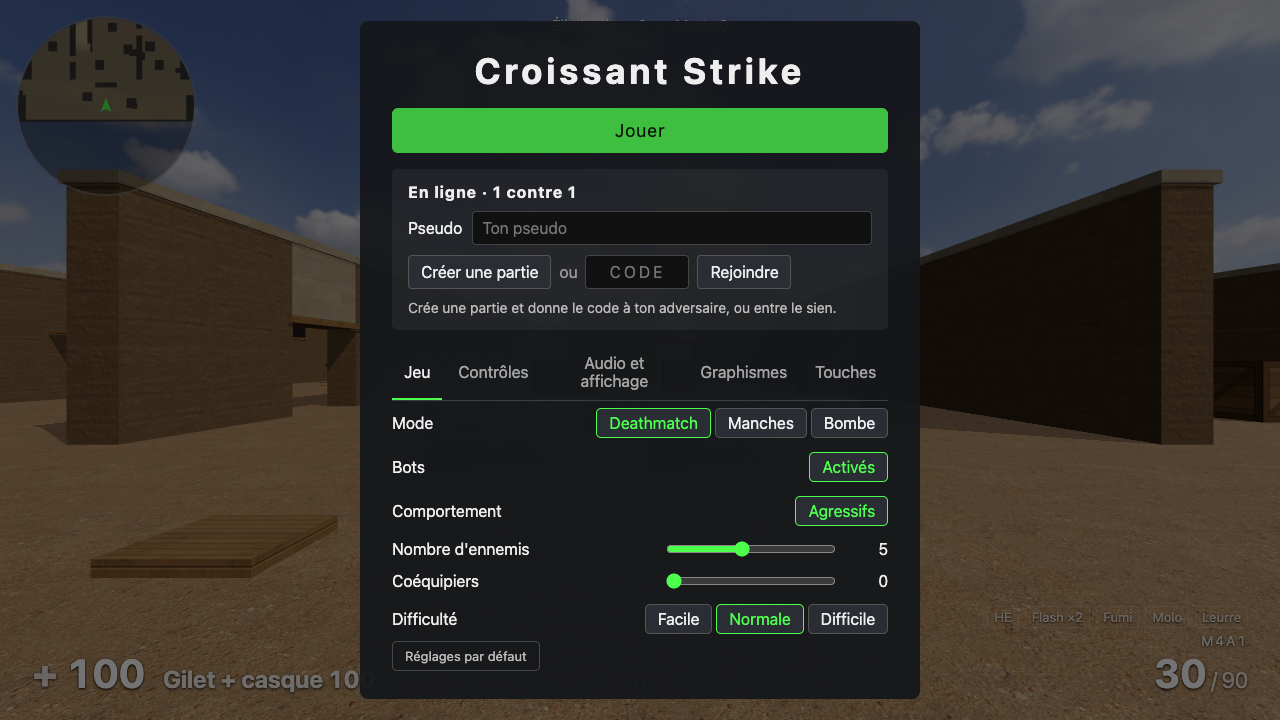
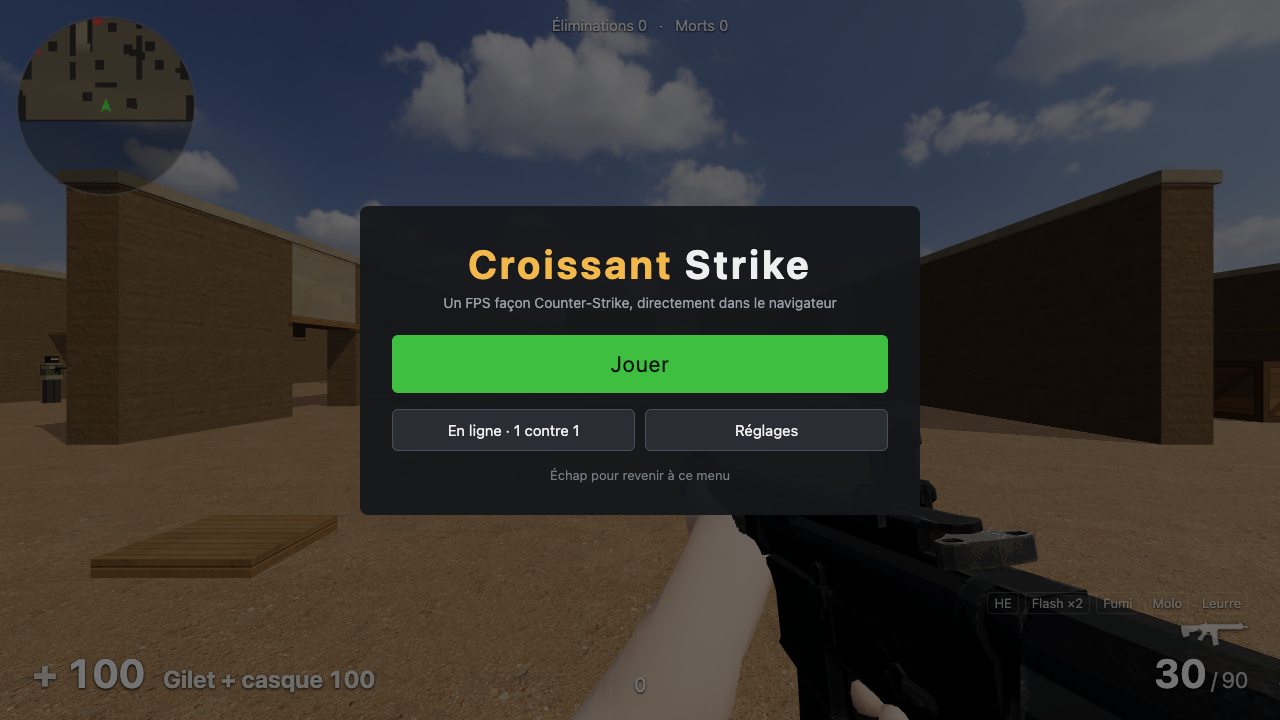
Menu simplifié, Nova dans le bon sens, bots passifs par défaut
Menu en trois écrans : accueil (titre, Jouer, En ligne, Réglages), puis
En ligne et Réglages avec un bouton Retour ; Échap ramène à l'accueil.

Nova : son squelette est retourné de 180° au repos dans le FBX (crosse vers
l'avant, main au milieu de l'arme). Chaque arme prend maintenant au repos
l'orientation de ses animations, et le bout du canon est à sa vraie place.

Bots passifs par défaut.

diff --git a/src/weapons/RetroWeapons.ts b/src/weapons/RetroWeapons.ts
@@ -30,8 +30,8 @@ type GunId = Exclude<WeaponId, 'knife'>;
 const GUNS: Record<GunId, GunSpec> = {
   rifle: { file: 'rifle', magazine: { mesh: 'Rifle_01_Magazine_2+Bullets', bone: 'Magazine' }, muzzle: [60, 16.5, 0] },
   smg: { file: 'smg', magazine: { mesh: 'SMG_01_Magazine2+Bullets_Mesh', bone: 'Magazine' }, muzzle: [36.4, 16.6, 0] },
-  // Le fusil à pompe est modélisé à l'envers : son canon est du côté +x, crosse vers -x.
-  shotgun: { file: 'shotgun', muzzle: [29.5, 0, 0] },
+  // Fusil à pompe : sa pose de repos est retournée dans le FBX (voir alignRestPose).
+  shotgun: { file: 'shotgun', muzzle: [64.5, 9.2, 0] },
   pistol: { file: 'pistol', magazine: { mesh: 'Pistol_01_Magazine_Full_Mesh', bone: 'Main' }, muzzle: [19.2, 12, 0] },
 };
 
@@ -188,6 +188,7 @@ export async function loadRetroWeapons(): Promise<RetroWeapons | null> {
       ]);
 
       const materials = { arms: armsTexture, gun: gunTexture, projectiles: projectilesTexture };
+      alignRestPose(gun, gunClips);
       if (extra && spec.magazine) attachMagazine(gun, extra, spec.magazine);
       applyMaterials(gun, materials);
       if (id === 'rifle') botRifle = cloneSkinned(gun);
@@ -240,6 +241,17 @@ async function loadClips(url: string): Promise<THREE.AnimationClip[]> {
   if (!response.ok) throw new Error(`${url} : ${response.status}`);
   const json = (await response.json()) as THREE.AnimationClipJSON[];
   return json.map((clip) => THREE.AnimationClip.parse(clip));
+}
+
+/**
+ * Oriente l'arme au repos comme dans ses animations : le squelette de la Nova est retourné
+ * de 180° dans le FBX (crosse vers l'avant, canon vers le joueur) alors que ses animations
+ * de tir et de rechargement le tiennent dans le bon sens.
+ */
+function alignRestPose(gun: THREE.Object3D, clips: THREE.AnimationClip[]): void {
+  const track = clips.flatMap((clip) => clip.tracks).find((t) => t.name.endsWith('_Armature.quaternion'));
+  if (!track) return;
+  gun.getObjectByName(track.name.slice(0, -'.quaternion'.length))?.quaternion.fromArray(track.values, 0);
 }
 
 /** Fixe le chargeur sur son os, orienté comme l'arme au repos. */

diff --git a/src/style.css b/src/style.css
@@ -404,6 +404,83 @@ canvas {
   text-align: center;
 }
 
+/* Menu : accueil (titre, Jouer, deux boutons), puis les écrans En ligne et Réglages. */
+.menu-view {
+  display: flex;
+  flex-direction: column;
+  gap: 16px;
+}
+
+.menu-view[hidden] {
+  display: none;
+}
+
+.menu-main {
+  align-items: stretch;
+  padding: 8px 0 4px;
+}
+
+.menu-main h1 {
+  font-size: 40px;
+  letter-spacing: 3px;
+  line-height: 1.1;
+}
+
+.title-accent {
+  color: #f2b84b;
+}
+
+.tagline {
+  margin-top: -8px;
+  color: #9aa0a8;
+  font-size: 14px;
+  text-align: center;
+}
+
+.menu-main .play {
+  margin-top: 8px;
+  padding: 16px;
+  font-size: 22px !important;
+}
+
+.menu-buttons {
+  display: grid;
+  grid-template-columns: 1fr 1fr;
+  gap: 10px;
+}
+
+.menu-buttons button {
+  padding: 11px 8px;
+  border: 1px solid #4a4e57;
+  border-radius: 6px;
+  background: #2a2d33;
+  font-size: 15px !important;
+}
+
+.menu-buttons button:hover {
+  border-color: #8f8;
+  background: #32363d;
+}
+
+.menu-hint {
+  color: #777c84;
+  font-size: 13px;
+  text-align: center;
+}
+
+.back {
+  align-self: flex-start;
+  padding: 4px 0;
+  border: none;
+  background: none;
+  color: #9aa0a8 !important;
+  font-size: 14px !important;
+}
+
+.back:hover {
+  color: #fff !important;
+}
+
 .panel button {
   font: inherit;
   color: inherit;
@@ -544,6 +621,10 @@ kbd {
 @media (max-width: 480px) {
   .panel {
     padding: 20px 16px;
+  }
+
+  .menu-buttons {
+    grid-template-columns: 1fr;
   }
 
   .setting {

diff --git a/index.html b/index.html
@@ -37,10 +37,24 @@
 
     <div id="overlay">
       <div class="panel">
-        <h1>Croissant Strike</h1>
-        <button id="play" class="play" type="button">Jouer</button>
-        <div id="online"></div>
-        <div id="settings"></div>
+        <section class="menu-view menu-main" data-view="main">
+          <h1><span class="title-accent">Croissant</span> Strike</h1>
+          <p class="tagline">Un FPS façon Counter-Strike, directement dans le navigateur</p>
+          <button id="play" class="play" type="button">Jouer</button>
+          <div class="menu-buttons">
+            <button type="button" data-open="online">En ligne · 1 contre 1</button>
+            <button type="button" data-open="settings">Réglages</button>
+          </div>
+          <p class="menu-hint">Échap pour revenir à ce menu</p>
+        </section>
+        <section class="menu-view" data-view="online" hidden>
+          <button type="button" class="back">← Retour</button>
+          <div id="online"></div>
+        </section>
+        <section class="menu-view" data-view="settings" hidden>
+          <button type="button" class="back">← Retour</button>
+          <div id="settings"></div>
+        </section>
       </div>
     </div>
 

diff --git a/src/ui/Hud.ts b/src/ui/Hud.ts
@@ -61,6 +61,15 @@ export class Hud {
 
   constructor(onPlay: () => void) {
     this.play.addEventListener('click', onPlay);
+    // Menu en trois écrans : accueil, en ligne, réglages (avec un bouton Retour).
+    for (const button of this.overlay.querySelectorAll<HTMLElement>('[data-open]')) {
+      button.addEventListener('click', () => this.showMenu(button.dataset.open!));
+    }
+    for (const button of this.overlay.querySelectorAll('.back')) button.addEventListener('click', () => this.showMenu('main'));
+  }
+
+  private showMenu(view: string): void {
+    for (const section of this.overlay.querySelectorAll<HTMLElement>('.menu-view')) section.hidden = section.dataset.view !== view;
   }
 
   /** Vitesse horizontale affichée en unités Source, comme cl_showpos. */
@@ -250,7 +259,8 @@ export class Hud {
 
   setPaused(paused: boolean): void {
     this.overlay.classList.toggle('hidden', !paused);
-    if (!paused) this.play.textContent = 'Reprendre';
+    if (paused) this.showMenu('main');
+    else this.play.textContent = 'Reprendre';
   }
 
   private restartAnimation(element: HTMLElement, classes: string): void {

diff --git a/src/core/settings.ts b/src/core/settings.ts
@@ -39,7 +39,8 @@ export interface Settings {
 export const DEFAULT_SETTINGS: Settings = {
   mode: 'deathmatch',
   botsEnabled: true,
-  botsAggressive: true,
+  // Passifs par défaut : on découvre la carte et on s'entraîne à viser sans se faire tirer dessus.
+  botsAggressive: false,
   botCount: 5,
   allyCount: 0,
   difficulty: 'normal',

diff --git a/README.md b/README.md
@@ -100,9 +100,9 @@ Le réticule est fixe, mais les balles se dispersent quand on court, saute ou ti
 
 ## Réglages
 
-Le menu de pause (Échap) contient tous les réglages, mémorisés dans le navigateur :
+Le menu (Échap) tient en un écran : **Jouer**, **En ligne · 1 contre 1** et **Réglages**. Les réglages sont mémorisés dans le navigateur :
 
-- **Jeu** : mode, bots activés ou non, agressifs ou passifs, nombre d'ennemis (1 à 10), coéquipiers (0 à 4) et difficulté (facile, normale, difficile).
+- **Jeu** : mode, bots activés ou non, passifs (par défaut) ou agressifs, nombre d'ennemis (1 à 10), coéquipiers (0 à 4) et difficulté (facile, normale, difficile).
 - **Contrôles** : sensibilité de la souris (même échelle que CS), axe vertical inversé ou non, champ de vision.
 - **Audio et affichage** : volume, couleur et taille du réticule, compteur de vitesse.
 - **Graphismes** : qualité des ombres (désactivées, basses, hautes), résolution de rendu (50 à 100 %, pour les PC moins puissants), compteur d'images par seconde.
@@ -131,7 +131,7 @@ Comme dans CS:GO (touche 3) : clic gauche rapide (40, puis 25 en enchaînant, 90
 
 ## En ligne (1 contre 1)
 
-Dans le menu (Échap), encart **En ligne** : choisis un pseudo, puis **Créer une partie** pour recevoir un code de 4 caractères à donner à ton adversaire ; lui l'entre et clique sur **Rejoindre**. C'est un deathmatch à deux (réapparition 3 s après chaque mort, hors de vue de l'autre), sans bots pour l'instant ; armes, gilet, couteau (coups dans le dos compris) et les cinq grenades marchent comme contre les bots. Une grenade vole chez les deux joueurs, et celui qui la lance annonce où elle éclate : HE, flash, fumée et feu sont donc au même endroit sur les deux écrans. **Quitter la partie** (ou le départ de l'autre) ramène au jeu seul, avec tes réglages.
+Dans le menu (Échap), bouton **En ligne · 1 contre 1** : choisis un pseudo, puis **Créer une partie** pour recevoir un code de 4 caractères à donner à ton adversaire ; lui l'entre et clique sur **Rejoindre**. C'est un deathmatch à deux (réapparition 3 s après chaque mort, hors de vue de l'autre), sans bots pour l'instant ; armes, gilet, couteau (coups dans le dos compris) et les cinq grenades marchent comme contre les bots. Une grenade vole chez les deux joueurs, et celui qui la lance annonce où elle éclate : HE, flash, fumée et feu sont donc au même endroit sur les deux écrans. **Quitter la partie** (ou le départ de l'autre) ramène au jeu seul, avec tes réglages.
 
 La connexion est directe entre les deux navigateurs (WebRTC, avec [PeerJS](https://peerjs.com)) : le serveur public de PeerJS sert seulement à se trouver grâce au code. Ça marche en local comme sur GitHub Pages, chacun chez soi. Sur certains réseaux très fermés (entreprise, certaines box), la connexion directe peut échouer. Chacun fait foi pour ses propres tirs (« je t'ai touché à la tête ») et l'autre applique les dégâts avec son gilet ; l'adversaire est affiché avec 100 ms de retard pour un mouvement fluide. Pour tester seul, ouvre le jeu dans deux fenêtres.
 
@@ -161,6 +161,6 @@ Les bots patrouillent sur toute la carte (escaliers et plateformes compris), t'a
 
 **Coéquipiers** : jusqu'à 4 bots dans ton camp (réglage « Coéquipiers », 0 par défaut), en tenue bleu-gris. Ils combattent les ennemis avec la même IA, s'entendent tirer entre camps, et apparaissent groupés autour de toi en mode manches ; la manche continue tant qu'un membre de ton équipe est en vie. Pas de tir ami : tes balles les traversent, tes grenades et ton feu ne les blessent pas, et inversement. Ils sont toujours visibles sur le radar (en bleu) et ont leur ligne dans le tableau des scores.
 
-En mode **passif** (dans les réglages), ils se promènent sans attaquer ni réagir aux tirs : pratique pour s'entraîner à viser.
+En mode **passif** (le réglage par défaut ; « Agressifs » dans les réglages pour qu'ils attaquent), ils se promènent sans attaquer ni réagir aux tirs : pratique pour s'entraîner à viser.
 
 Le nombre de bots et la difficulté se choisissent dans les réglages ; le détail de chaque niveau (temps de réaction, précision, chance de viser la tête…) est dans `src/config.ts`, section `DIFFICULTY`.
